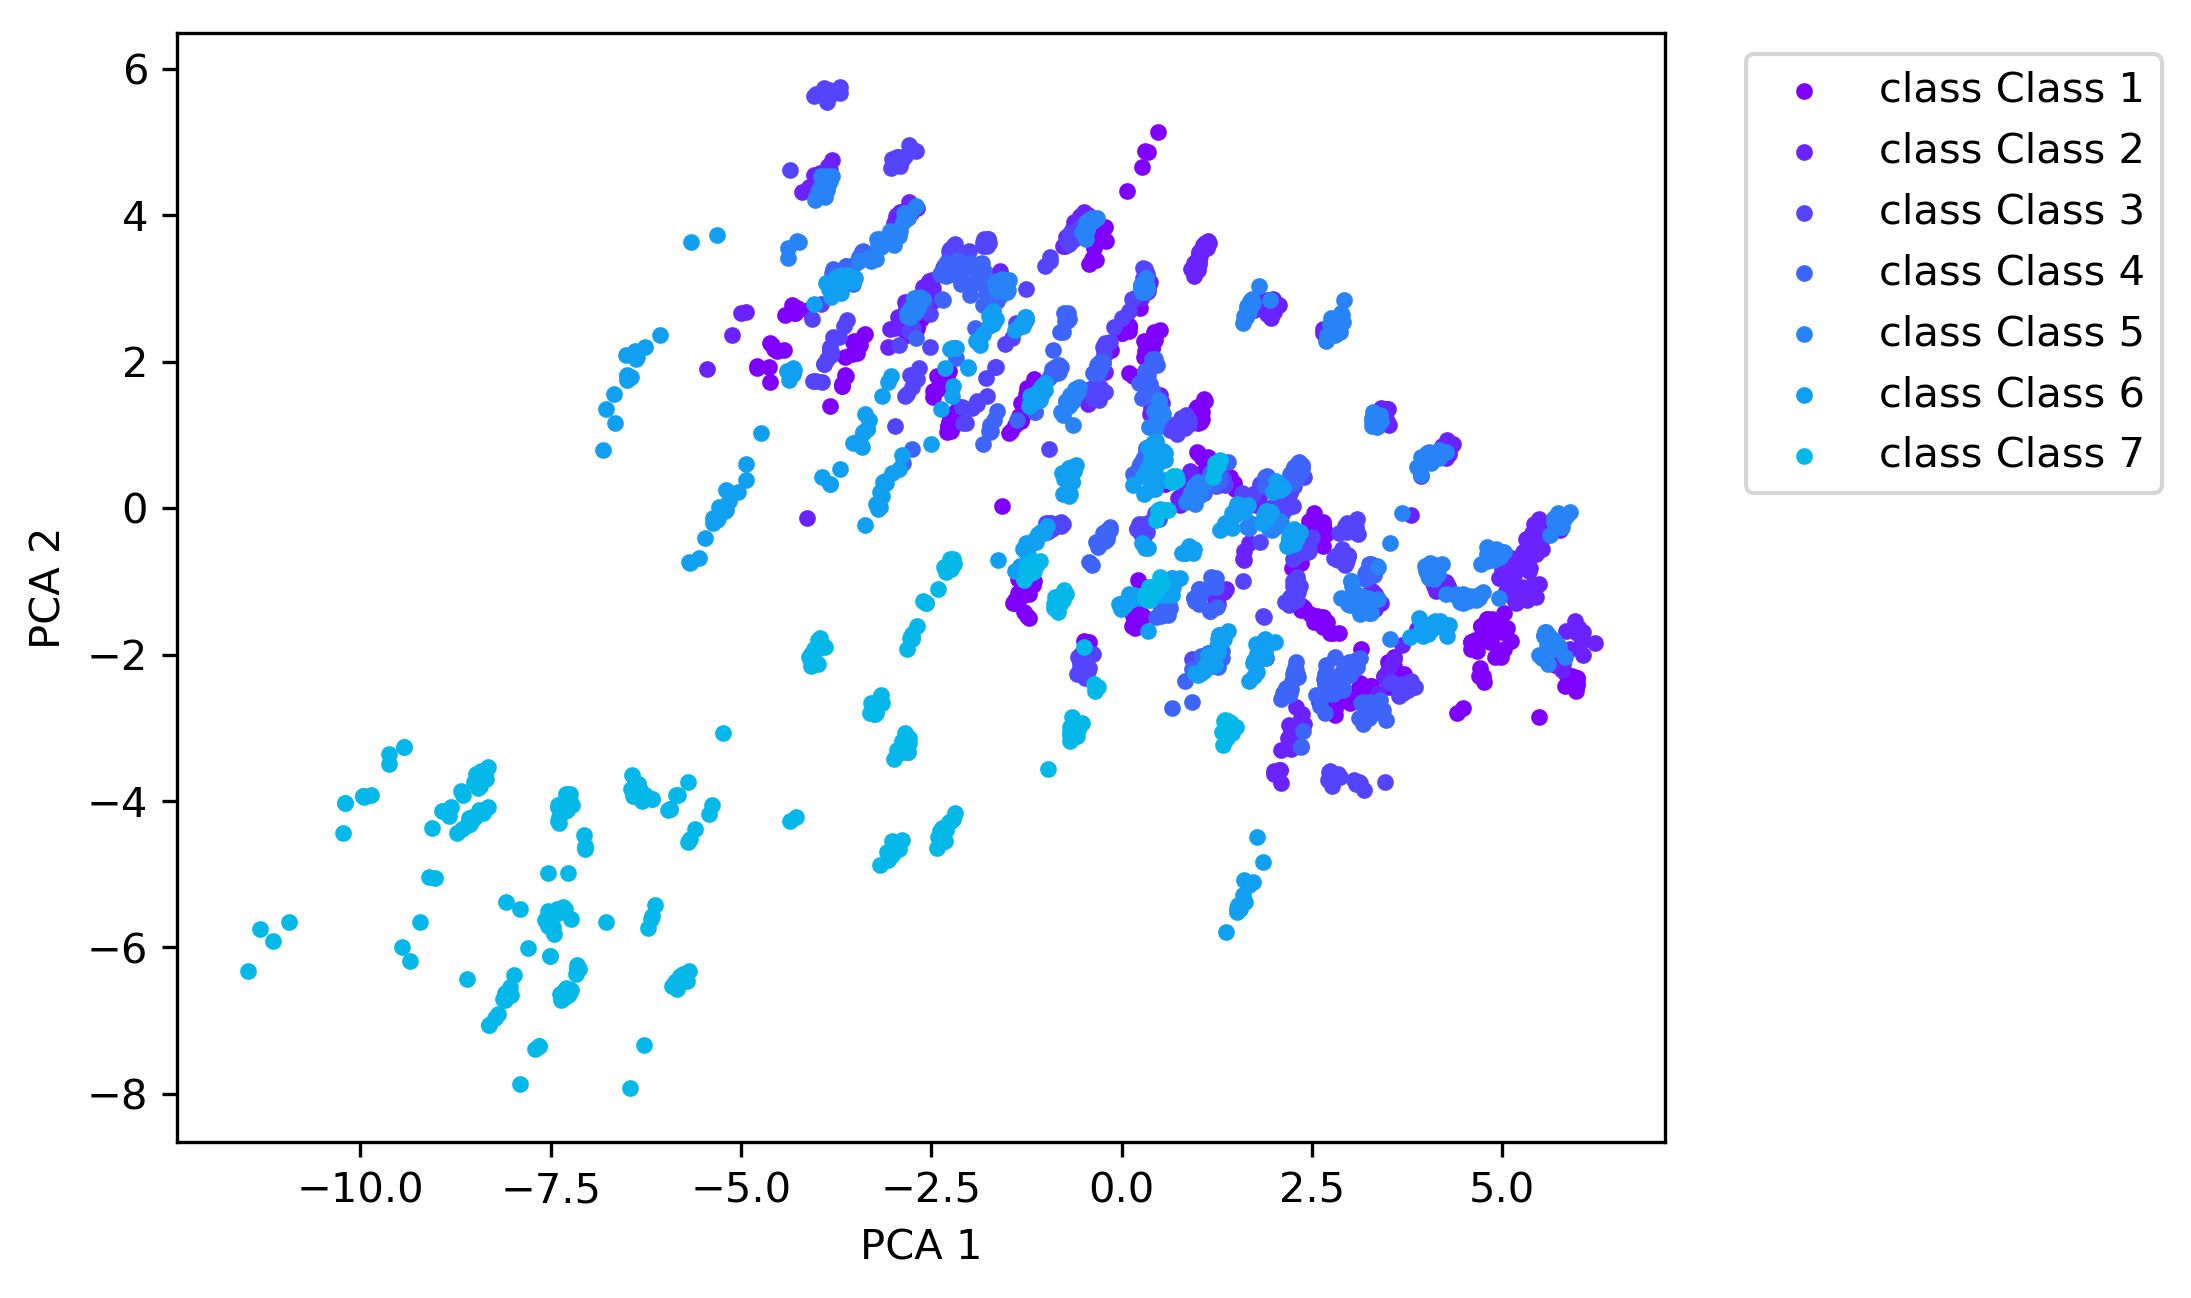
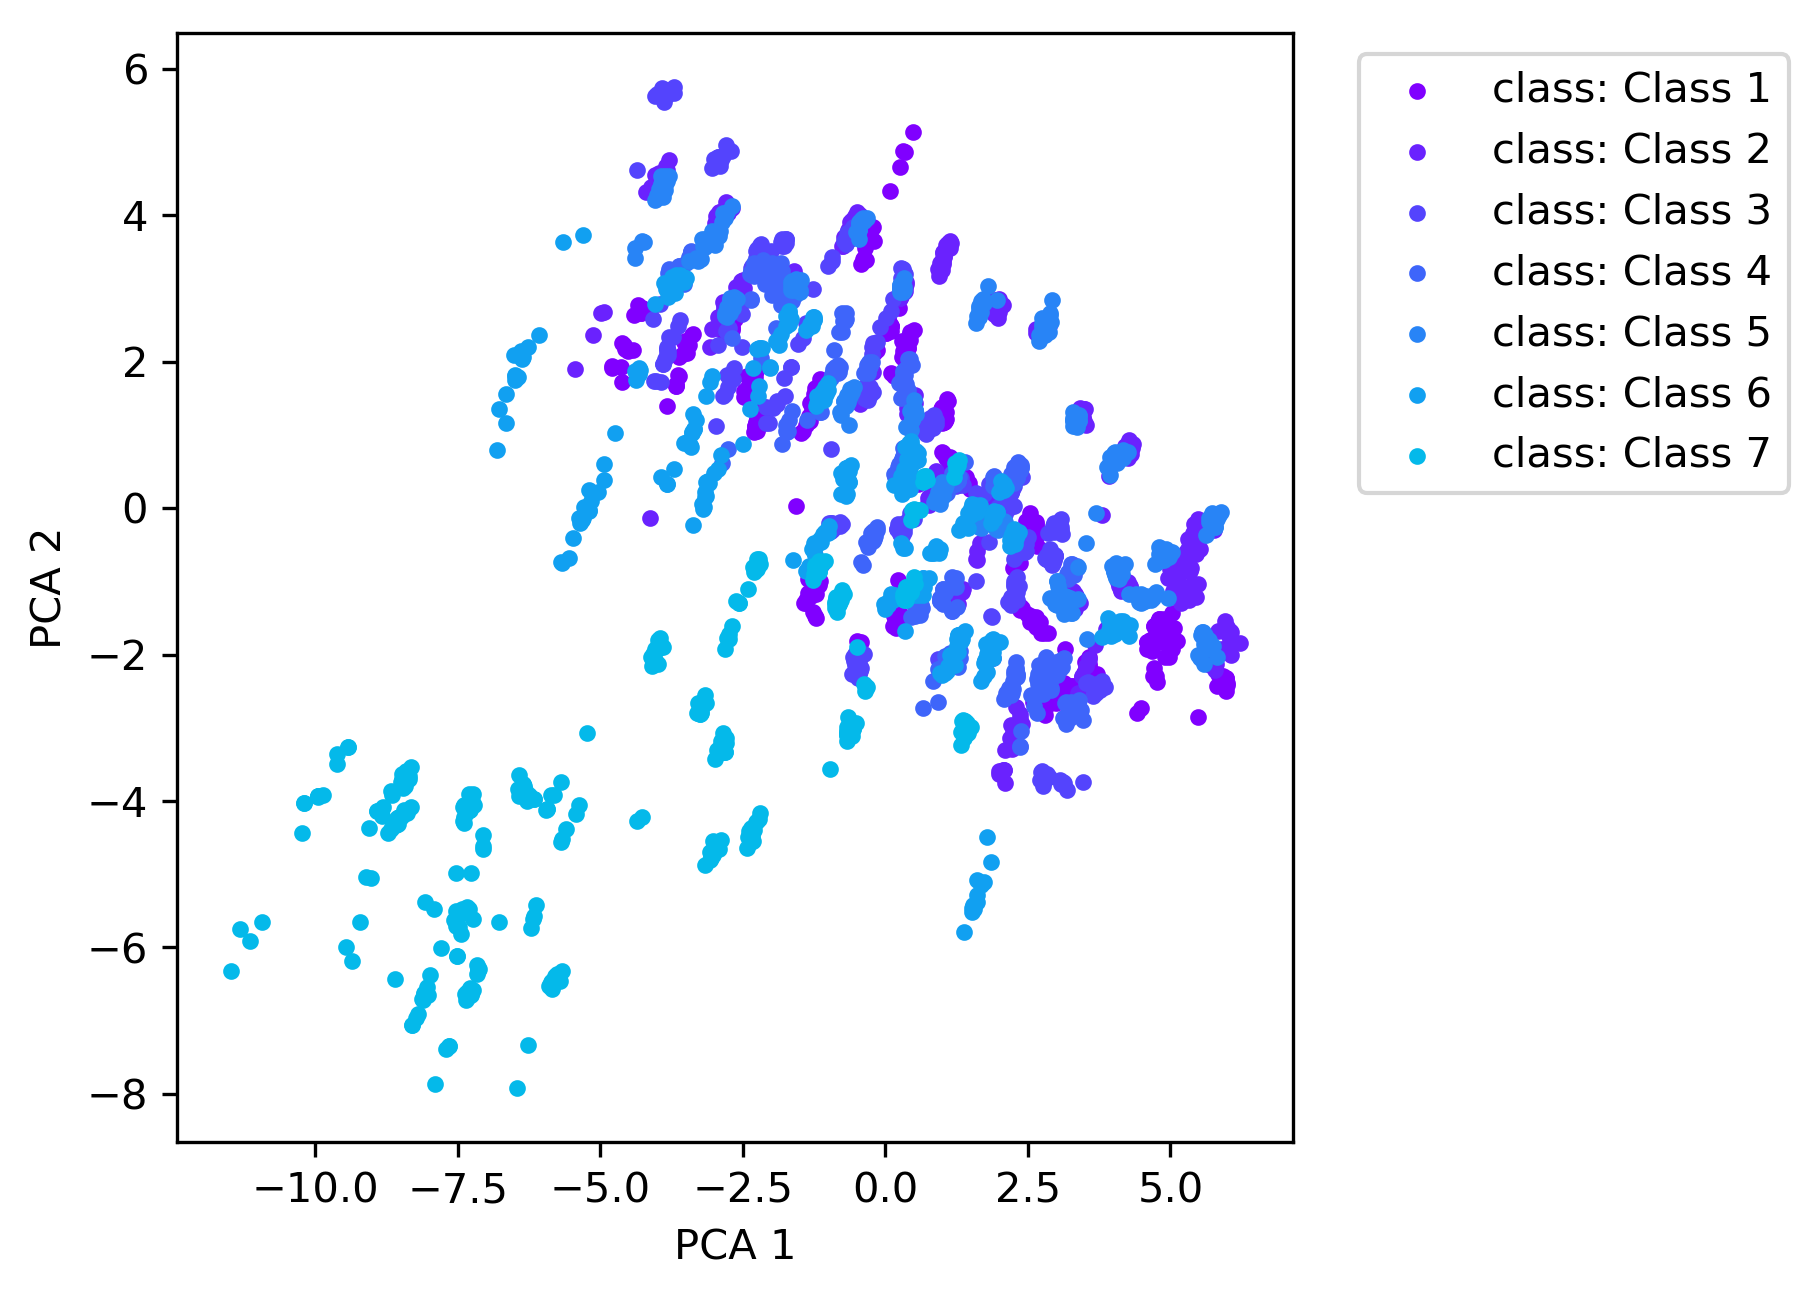
Results of data analisys

diff --git a/Estudo/DataAnalisys.py b/Estudo/DataAnalisys.py
@@ -3,18 +3,21 @@ import matplotlib.pyplot as plt
 from matplotlib.mlab import PCA
 import matplotlib.cm as cm
 
-
 attributes = np.loadtxt("../GLCM/EXP_01/FEATURES_M1_CM8b.txt", usecols=[x for x in range(0, 24)], delimiter=",")
 index = np.array([x for x in range(len(attributes))])
 labels = np.loadtxt("../GLCM/EXP_01/FEATURES_M1_CM8b.txt", usecols=-1, delimiter=",", dtype=object)
 MK = [".", "_"]
 CLASSES = ["Class 1", "Class 2", "Class 3", "Class 4", "Class 5", "Class 6", "Class 7"]
-COLOR = cm.rainbow(np.linspace(0, 1, 24))
+ATTRIBUTES = ["1", "2", "3", "4", "5", "6", "7", "8", "9", "10", "11", "12", "13", "14", "15", "16", "17", "18", "19",
+              "20", "21", "22", "23", "24"]
 
+
+COLOR = cm.rainbow(np.linspace(0, 1, attributes.shape[1]))
+#
 # """ Unconditional analysis: generate histogram for each attribute
 #     independent of they class.
 # """
-# for i in range(24):
+# for i in range(attributes.shape[1]):
 #     plt.clf()
 #     plt.hist(attributes[:, i], 100)
 #     plt.legend(loc='upper left', bbox_to_anchor=(1.04, 1))
@@ -22,7 +25,7 @@ COLOR = cm.rainbow(np.linspace(0, 1, 24))
 #
 # """ class conditional analysis: generate histogram for each attribute in each class.
 # """
-# for i in range(24):
+# for i in range(attributes.shape[1]):
 #     for j in CLASSES:
 #         plt.clf()
 #         x = index[labels == j]
@@ -31,26 +34,32 @@ COLOR = cm.rainbow(np.linspace(0, 1, 24))
 #         plt.legend(loc='upper left', bbox_to_anchor=(1.04, 1))
 #         plt.savefig("FIGURE/hist_att-{:02d}_cls-{}.png".format(i + 1, j), dpi=100, bbox_inches="tight")
 #
-# """ Unconditional bi-variate analysis
-# """
-# covTable = np.zeros((24, 24))
-# for i in range(24):
-#     for j in range(24):
-#         covTable[i, j] = np.corrcoef(attributes[:, i], attributes[:, j])[1, 0]
-#
-# plt.matshow(covTable)
-# plt.xticks(range(24),
-#            ["1", "2", "3", "4", "5", "6", "7", "8", "9", "10", "11", "12", "13", "14", "15", "16", "17", "18", "19", "20", "21", "22", "23", "24"])
-# plt.yticks(range(24),["1", "2", "3", "4", "5", "6", "7", "8", "9", "10", "11", "12", "13", "14", "15", "16", "17", "18", "19", "20", "21", "22", "23", "24"])
-# plt.savefig("FIGURE/Covariance_table.png", dpi=100, pad_inches=100)
-#
+""" Unconditional bi-variate analysis
+"""
+covTable = np.zeros((attributes.shape[1], attributes.shape[1]))
+for i in range(attributes.shape[1]):
+    for j in range(attributes.shape[1]):
+        covTable[i, j] = np.corrcoef(attributes[:, i], attributes[:, j])[1, 0]
+plt.matshow(covTable)
+plt.xticks(range(attributes.shape[1]), ATTRIBUTES)
+plt.yticks(range(attributes.shape[1]), ATTRIBUTES)
+plt.savefig("FIGURE/Covariance_table_-1.png", dpi=100, pad_inches=100)
+plt.clf()
+covTable = np.flip(covTable, axis=0)
+plt.matshow(covTable)
+plt.xticks(range(attributes.shape[1]), ATTRIBUTES)
+plt.yticks(range(attributes.shape[1]), np.flip(ATTRIBUTES))
+plt.savefig("FIGURE/Covariance_table_1.png", dpi=100, pad_inches=100)
+
+
+
 # plt.clf()
 # ok = []
-# for i in range(24):
-#     for j in range(24):
+# for i in range(attributes.shape[1]):
+#     for j in range(attributes.shape[1]):
 #         if i != j and not ([i, j] in ok):
 #             plt.clf()
-#             for w,k in enumerate(CLASSES):
+#             for w, k in enumerate(CLASSES):
 #                 plt.scatter(attributes[labels == k, i], attributes[labels == k, j], label="class {}".format(k),
 #                             color=COLOR[w], marker=MK[0])
 #             plt.legend(loc='upper left', bbox_to_anchor=(1.04, 1))
@@ -59,27 +68,27 @@ COLOR = cm.rainbow(np.linspace(0, 1, 24))
 #             plt.savefig("FIGURE/att-{}_vs_{}_.png".format(i + 1, j + 1), dpi=300, bbox_inches="tight")
 #             ok.append([i, j])
 #             ok.append([j, i])
-
-""" Unconditional multi-variate analysis
-"""
-mu = attributes.mean(axis=0)
-sigma = attributes.std(axis=0)
-attributes = (attributes - mu) / sigma
-attributes = np.nan_to_num(attributes)
-resultPca = PCA(attributes, standardize=False)
-plt.clf()
-result = np.dot(attributes, resultPca.Wt)
-for k,j in enumerate(CLASSES):
-    plt.scatter(resultPca.Y[labels == j, 0], resultPca.Y[labels == j, 1], label="class {}".format(j), marker=MK[0],
-                color=COLOR[k])
-plt.legend(loc='upper left', bbox_to_anchor=(1.04, 1))
-plt.xlabel("PCA 1")
-plt.ylabel("PCA 2")
-plt.savefig("FIGURE/scatter_PCA_.png", dpi=300, bbox_inches="tight")
-plt.clf()
-for i in range(2):
-    for k,j in enumerate(CLASSES):
-        plt.scatter(index[labels == j], attributes[labels == j, i], label="Pre. {} class {}".format(i + 1, j),
-                    marker=MK[i], color=COLOR[k])
-plt.legend(loc='upper left', bbox_to_anchor=(1.04, 1))
-plt.savefig("FIGURE/scatter_PCA_before.png", dpi=300, bbox_inches="tight")
+#
+# """ Unconditional multi-variate analysis
+# """
+# mu = attributes.mean(axis=0)
+# sigma = attributes.std(axis=0)
+# attributes = (attributes - mu) / sigma
+# attributes = np.nan_to_num(attributes)
+# resultPca = PCA(attributes, standardize=False)
+# plt.clf()
+# result = np.dot(attributes, resultPca.Wt)
+# for k, j in enumerate(CLASSES):
+#     plt.scatter(resultPca.Y[labels == j, 0], resultPca.Y[labels == j, 1], label="class: {}".format(j), marker=MK[0],
+#                 color=COLOR[k])
+# plt.legend(loc='upper left', bbox_to_anchor=(1.04, 1))
+# plt.xlabel("PCA 1")
+# plt.ylabel("PCA 2")
+# plt.savefig("FIGURE/scatter_PCA_.png", dpi=300, bbox_inches="tight")
+# plt.clf()
+# for i in range(2):
+#     for k, j in enumerate(CLASSES):
+#         plt.scatter(index[labels == j], attributes[labels == j, i], label="Pre.: {} class: {}".format(i + 1, j),
+#                     marker=MK[i], color=COLOR[k])
+# plt.legend(loc='upper left', bbox_to_anchor=(1.04, 1))
+# plt.savefig("FIGURE/scatter_PCA_before.png", dpi=300, bbox_inches="tight")
